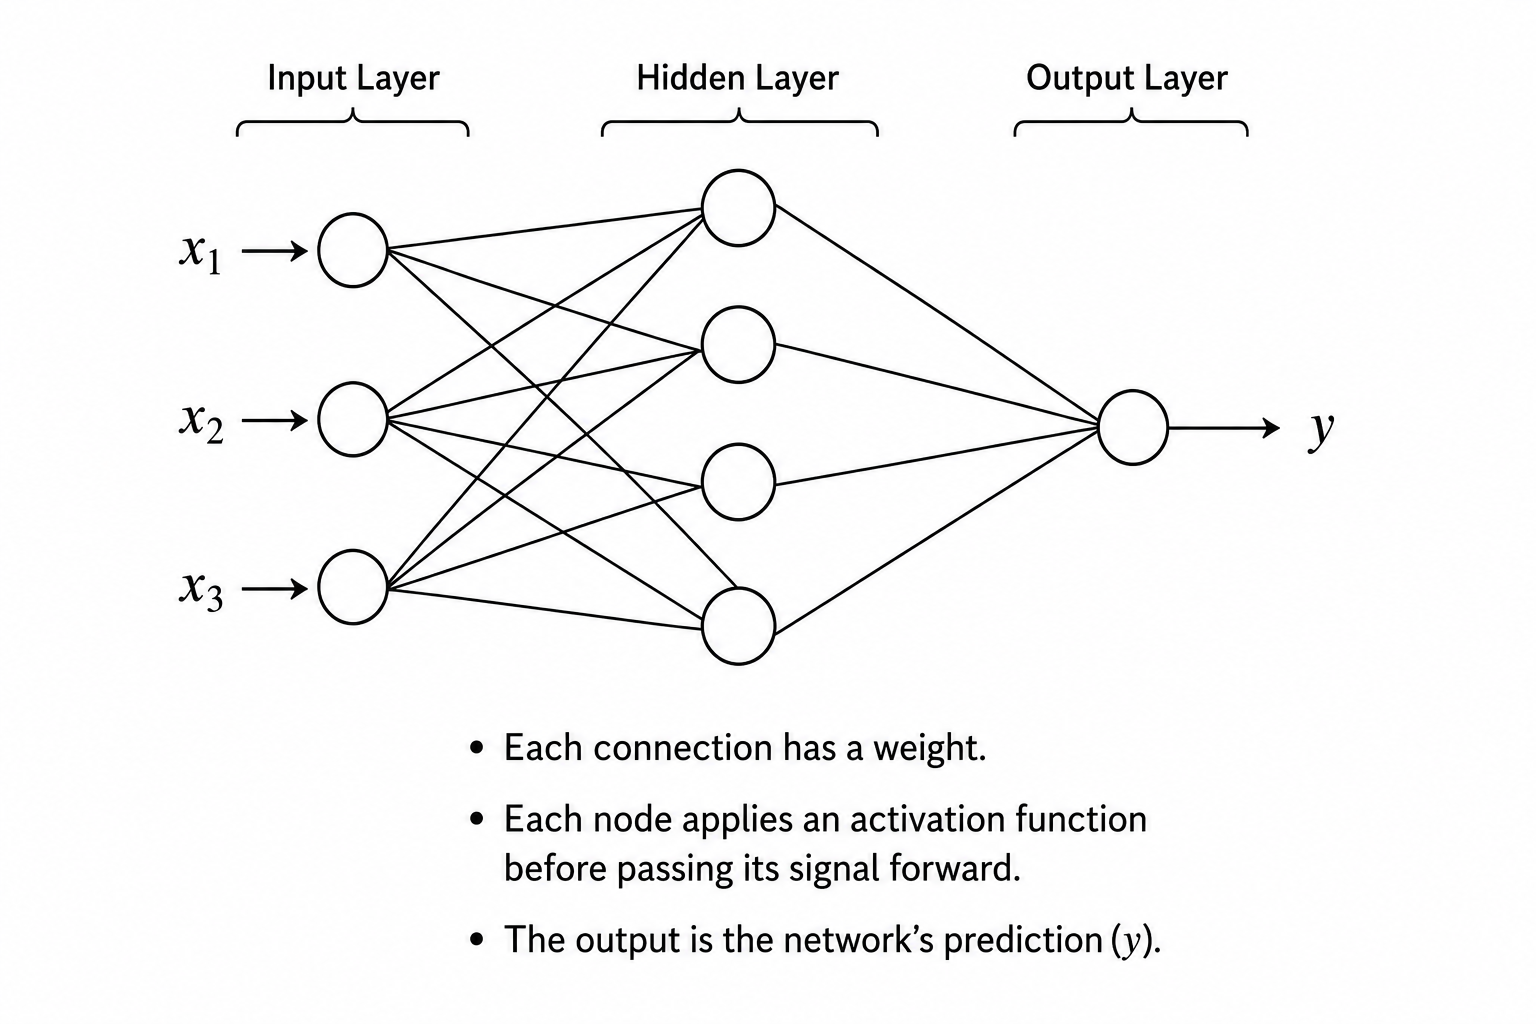
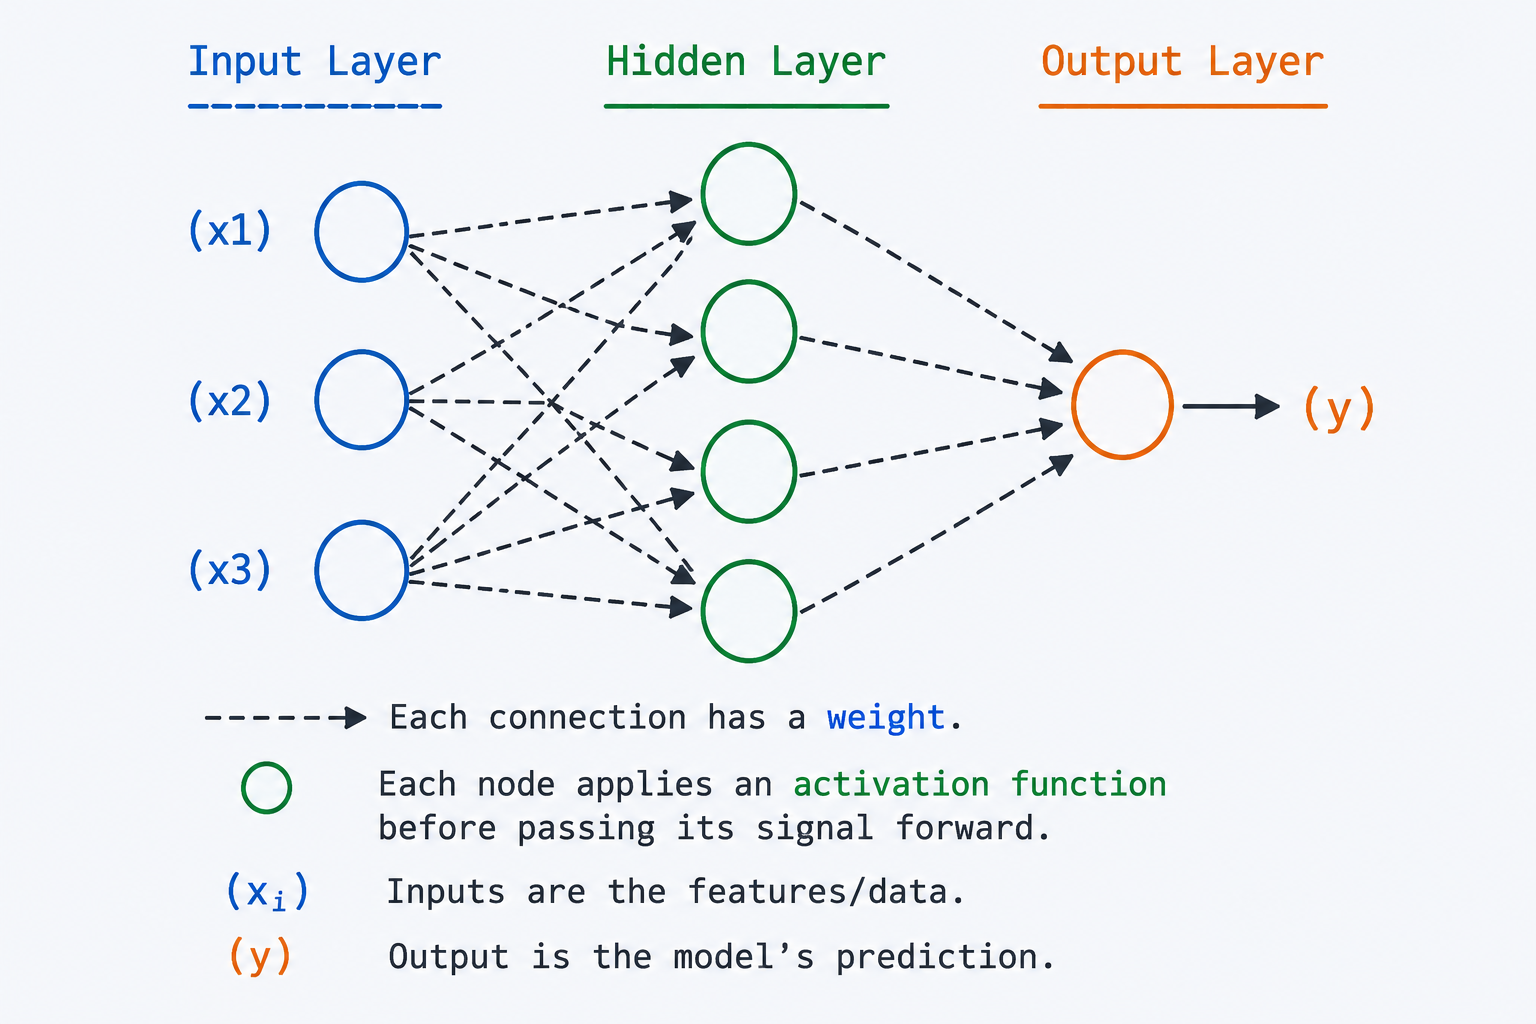
Improve Neural Networks section with diagram and description (closes #3)

diff --git a/README.md b/README.md
@@ -205,9 +205,7 @@ are hard to describe with fixed logic, such as:
 
 ![Neural Network Diagram](images/neural-network-diagram.png)
 
-- Each connection has a weight.
-- Each node applies an activation function before passing its signal forward.
-- The output is the network's prediction (y).
+A simplified neural network showing how input features pass through hidden neurons and weighted connections to produce an output prediction.
 
 ## Deep Learning
 <!-- [paulinendugi.eng] will write this section -->